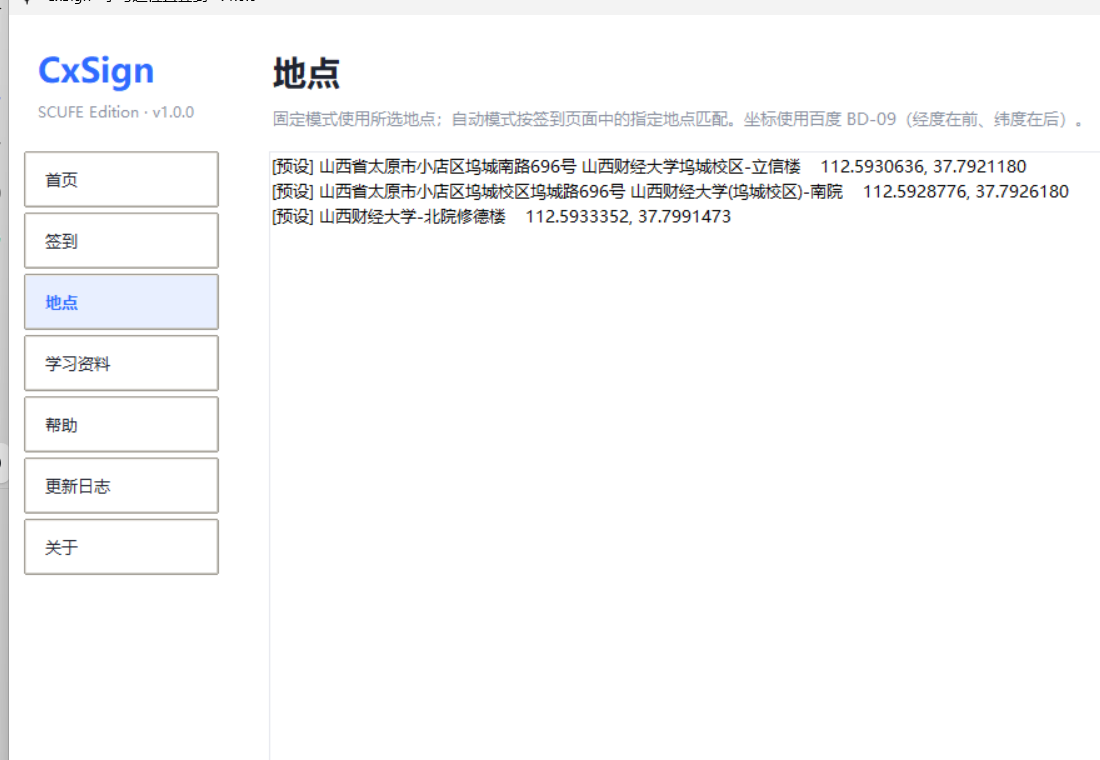
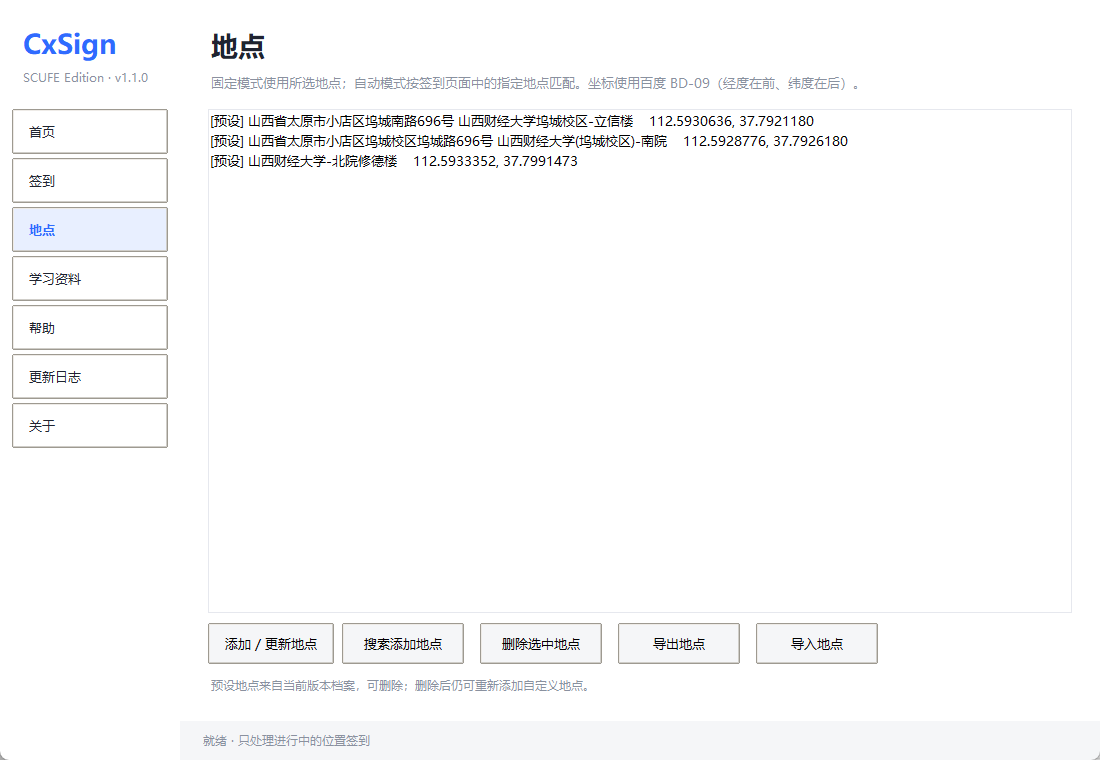
docs: refresh screenshots for v1.1.0
- 新增签到页课程下拉（sign_scufe.png）与地图选点窗口（pick_scufe.png）截图，README 界面预览置顶展示
- 重新生成其余截图（版本号、地点页「搜索添加地点」按钮）
- make_screenshots：DPI 感知并固定 100% 缩放，高分屏下截图不再错位；仅使用占位账号与示例课程

diff --git a/make_screenshots.py b/make_screenshots.py
@@ -1,4 +1,6 @@
 """生成净化截图（仅使用占位/模拟数据，不含任何真实账号、密码、课程）。"""
+import sys
+import time
 from pathlib import Path
 from unittest.mock import patch
 
@@ -8,58 +10,87 @@ from desktop_ui import App
 ROOT = Path(__file__).resolve().parent
 OUT = ROOT / 'screenshots'
 
+# 占位课程，绝不使用真实课程
+PLACEHOLDER_COURSES = {'高等数学（示例）': ['手机号'], '大学英语（示例）': ['手机号'], '数学建模（示例）': ['手机号']}
+# 公开地点的示例网址（立信楼为 SCUFE 内置预设地点）
+SAMPLE_MAP_URL = ('https://map.baidu.com/poi/%E5%B1%B1%E8%A5%BF%E8%B4%A2%E7%BB%8F%E5%A4%A7%E5%AD%A6'
+                  '%E5%9D%9E%E5%9F%8E%E6%A0%A1%E5%8C%BA-%E7%AB%8B%E4%BF%A1%E6%A5%BC/@12533898.37,4523710.51,21z')
+
+
+class ShotApp(App):
+    def _build_style(self):
+        # 固定按 100% 缩放渲染，截图尺寸与高分屏缩放无关。
+        self.tk.call('tk', 'scaling', 96 / 72)
+        super()._build_style()
+
 
 def make_app(edition):
     profile = app_config.load_profile(edition)
     # Isolate all local configuration before construction, including locations
     # and previous results; replacing accounts afterwards is insufficient.
     with patch('desktop_ui.read_json', side_effect=lambda name, default: default):
-        app = App(config={'edition': edition, 'dev_mode': True}, profile=profile)
+        app = ShotApp(config={'edition': edition, 'dev_mode': True}, profile=profile)
     # 占位账号，绝不使用真实账号
     app.accounts = [{'username': '手机号', 'password': '••••••••', 'schoolid': ''}]
     app.refresh_accounts()
     app.show_page('home')
     app.deiconify()
-    app.geometry('1100x760')
+    app.geometry('1100x760+0+0')
     app.update_idletasks()
     app.update()
     return app
 
 
-def capture(app, name):
+def capture(window, name):
     from PIL import ImageGrab
-    x = app.winfo_rootx()
-    y = app.winfo_rooty()
-    w = app.winfo_width()
-    h = app.winfo_height()
+    window.attributes('-topmost', True)
+    window.lift()
+    window.update()
+    time.sleep(0.5)
+    window.update()
+    x = window.winfo_rootx()
+    y = window.winfo_rooty()
+    w = window.winfo_width()
+    h = window.winfo_height()
     img = ImageGrab.grab(bbox=(x, y, x + w, y + h))
     img.save(OUT / name)
-    print('已保存', name)
+    print('已保存', name, img.size)
 
 
 def main():
+    if sys.platform == 'win32':
+        # 让 Tk 与截屏使用同一套物理像素坐标，避免高分屏下截图错位。
+        import ctypes
+        ctypes.windll.shcore.SetProcessDpiAwareness(2)
     OUT.mkdir(exist_ok=True)
 
     # SCUFE 版
     scufe = make_app('scufe')
     scufe.show_page('home')
-    scufe.update()
     capture(scufe, 'home_scufe.png')
+    scufe.course_owners = dict(PLACEHOLDER_COURSES)
+    scufe.course_picker.configure(values=list(PLACEHOLDER_COURSES))
+    scufe.course.set('高等数学（示例）')
+    scufe.update_course_hint()
+    scufe.show_page('sign')
+    capture(scufe, 'sign_scufe.png')
     scufe.show_page('places')
-    scufe.update()
     capture(scufe, 'places_scufe.png')
     scufe.show_page('resources')
-    scufe.update()
     capture(scufe, 'resources_scufe.png')
+    scufe.attributes('-topmost', False)
+    dialog = scufe.search_location()
+    dialog.window.geometry('+40+40')
+    dialog.coord_text.set(SAMPLE_MAP_URL)
+    dialog.parse()
+    capture(dialog.window, 'pick_scufe.png')
     scufe.destroy()
 
     # Generic 版
     generic = make_app('generic')
     generic.show_page('home')
-    generic.update()
     capture(generic, 'home_generic.png')
     generic.show_page('places')
-    generic.update()
     capture(generic, 'places_generic.png')
     generic.destroy()
 
